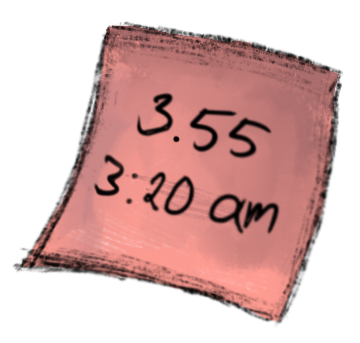
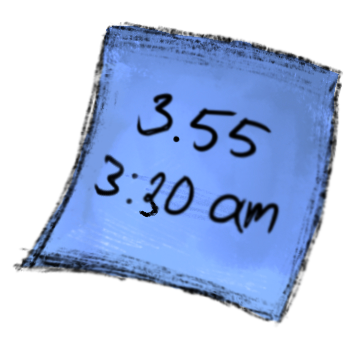
the final push

diff --git a/ExportableProject/Web/index.html b/ExportableProject/Web/index.html
@@ -111,7 +111,7 @@ body {
 
 		<script src="index.js"></script>
 		<script>
-const GODOT_CONFIG = {"args":[],"canvasResizePolicy":2,"emscriptenPoolSize":8,"ensureCrossOriginIsolationHeaders":true,"executable":"index","experimentalVK":false,"fileSizes":{"index.pck":43314552,"index.wasm":35749181},"focusCanvas":true,"gdextensionLibs":[],"godotPoolSize":4};
+const GODOT_CONFIG = {"args":[],"canvasResizePolicy":2,"emscriptenPoolSize":8,"ensureCrossOriginIsolationHeaders":true,"executable":"index","experimentalVK":false,"fileSizes":{"index.pck":43296232,"index.wasm":37686550},"focusCanvas":true,"gdextensionLibs":[],"godotPoolSize":4};
 const GODOT_THREADS_ENABLED = false;
 const engine = new Engine(GODOT_CONFIG);
 